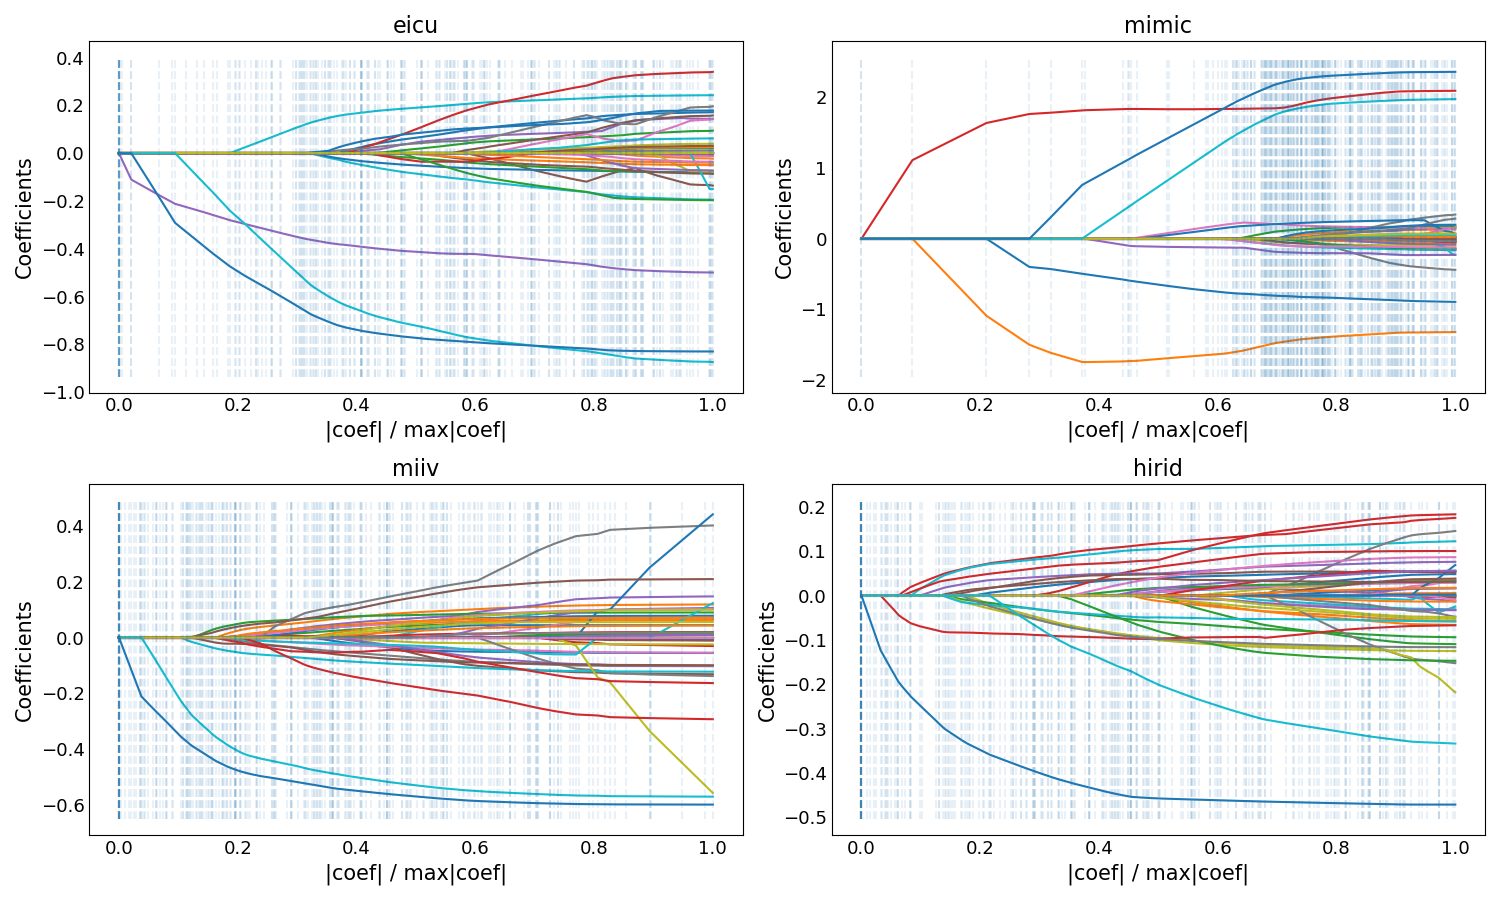
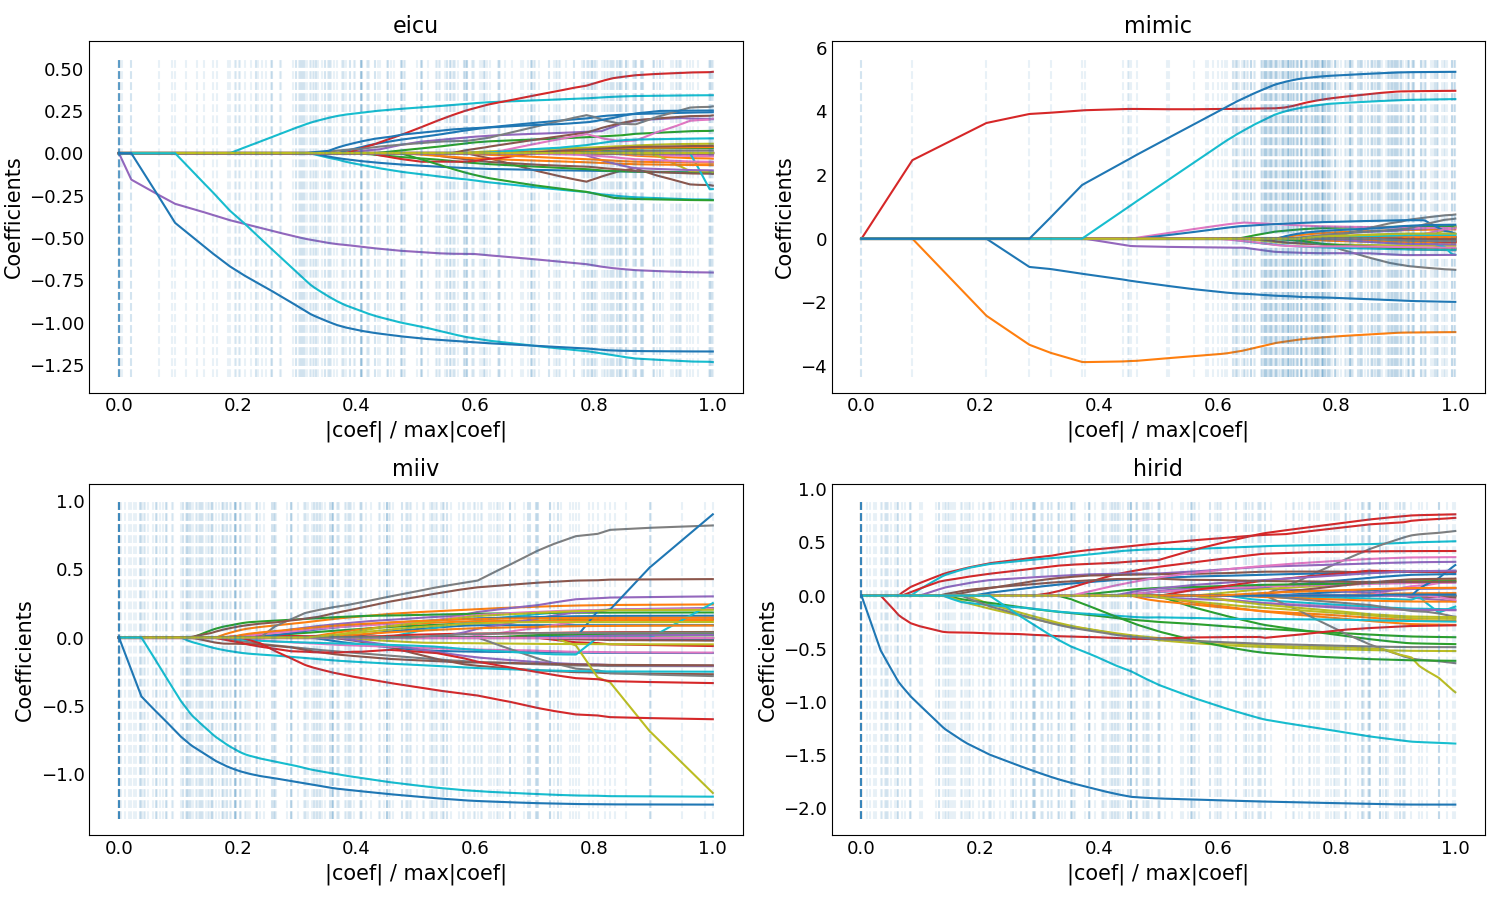
.

diff --git a/Feature Selection/DSL_profiles.py b/Feature Selection/DSL_profiles.py
@@ -22,7 +22,7 @@ from constants import CATEGORICAL_COLUMNS
 from icu_experiments.load_data import load_data_for_prediction
 from preprocessing import make_feature_preprocessing
 
-outcome = 'map'
+outcome = 'hr'
 method = 'lasso'
 
 data = load_data_for_prediction(outcome=outcome)
@@ -118,6 +118,8 @@ plt.tight_layout()  # Adjust the layout
 plt.savefig(f'images/lasso profiles/{outcome}/{outcome}_common_effects_DSL_preprocessed_individ.png')
 plt.show()
 
+
+r_g = {'eicu': 1.41, 'hirid': 4.17, 'mimic': 2.22, 'miiv': 2.05}
 # Print and plot Lasso path of group effects against shrinkage factor
 fig, axs = plt.subplots(2, 2, figsize=(15,9))
 for i, source in enumerate(['eicu', 'mimic', 'miiv', 'hirid']): 
@@ -130,7 +132,7 @@ for i, source in enumerate(['eicu', 'mimic', 'miiv', 'hirid']):
     feature_names = [list(X_train_augmented.iloc[:, (1+i)*51:(2+i)*51].columns)[j] for j in feature_indices]
     xmax = max(xx)
     print(f'{source} effects: ', feature_names)
-    ax.plot(xx, _coefs.T)
+    ax.plot(xx, r_g[source]*_coefs.T)
     ymin, ymax = ax.get_ylim()
     ax.vlines(xx, ymin, ymax, linestyle="dashed", alpha=0.1)
     ax.set_xlabel("|coef| / max|coef|", fontsize=15)

diff --git a/Feature Selection/DSL_barplot.py b/Feature Selection/DSL_barplot.py
@@ -14,6 +14,7 @@ import seaborn as sns
 
 outcome = 'hr'
 datasets = ['eicu', 'mimic', 'miiv', 'hirid']
+r_g = {'eicu': 1.41, 'hirid': 4.17, 'mimic': 2.22, 'miiv': 2.05}
 coefs = pd.read_parquet(f'parquet/{outcome}/dsl_coefs_{outcome}.parquet')
 
 # Figure containing barplot for each group specific coefficients order by absolute magnitude and colour indicates sign 
@@ -30,7 +31,7 @@ for i, source in enumerate(datasets):
             color_palette.append('b')
         else: 
             color_palette.append('r')
-    sns.barplot(x=source_coefs["abs_coefs"].iloc[:10], y=source_features[1].iloc[:10], hue=source_features[1].iloc[:10], orient="h", palette=color_palette[:10], legend=False, alpha=0.5, ax=ax)
+    sns.barplot(x=r_g[source]*source_coefs["abs_coefs"].iloc[:10], y=source_features[1].iloc[:10], hue=source_features[1].iloc[:10], orient="h", palette=color_palette[:10], legend=False, alpha=0.5, ax=ax)
     ax.set_xlabel("Absolute Value of Coefficient", fontsize=15)
     ax.set_ylabel('')
     ax.tick_params(axis='y', labelsize=16, size=0)  

diff --git a/Feature Selection/Lasso_profiles.py b/Feature Selection/Lasso_profiles.py
@@ -22,7 +22,7 @@ from preprocessing import make_feature_preprocessing
 from constants import CATEGORICAL_COLUMNS
 from icu_experiments.load_data import load_data_for_prediction
 
-outcome = 'map'
+outcome = 'hr'
 method = 'lasso'
 
 data = load_data_for_prediction(outcome=outcome)
